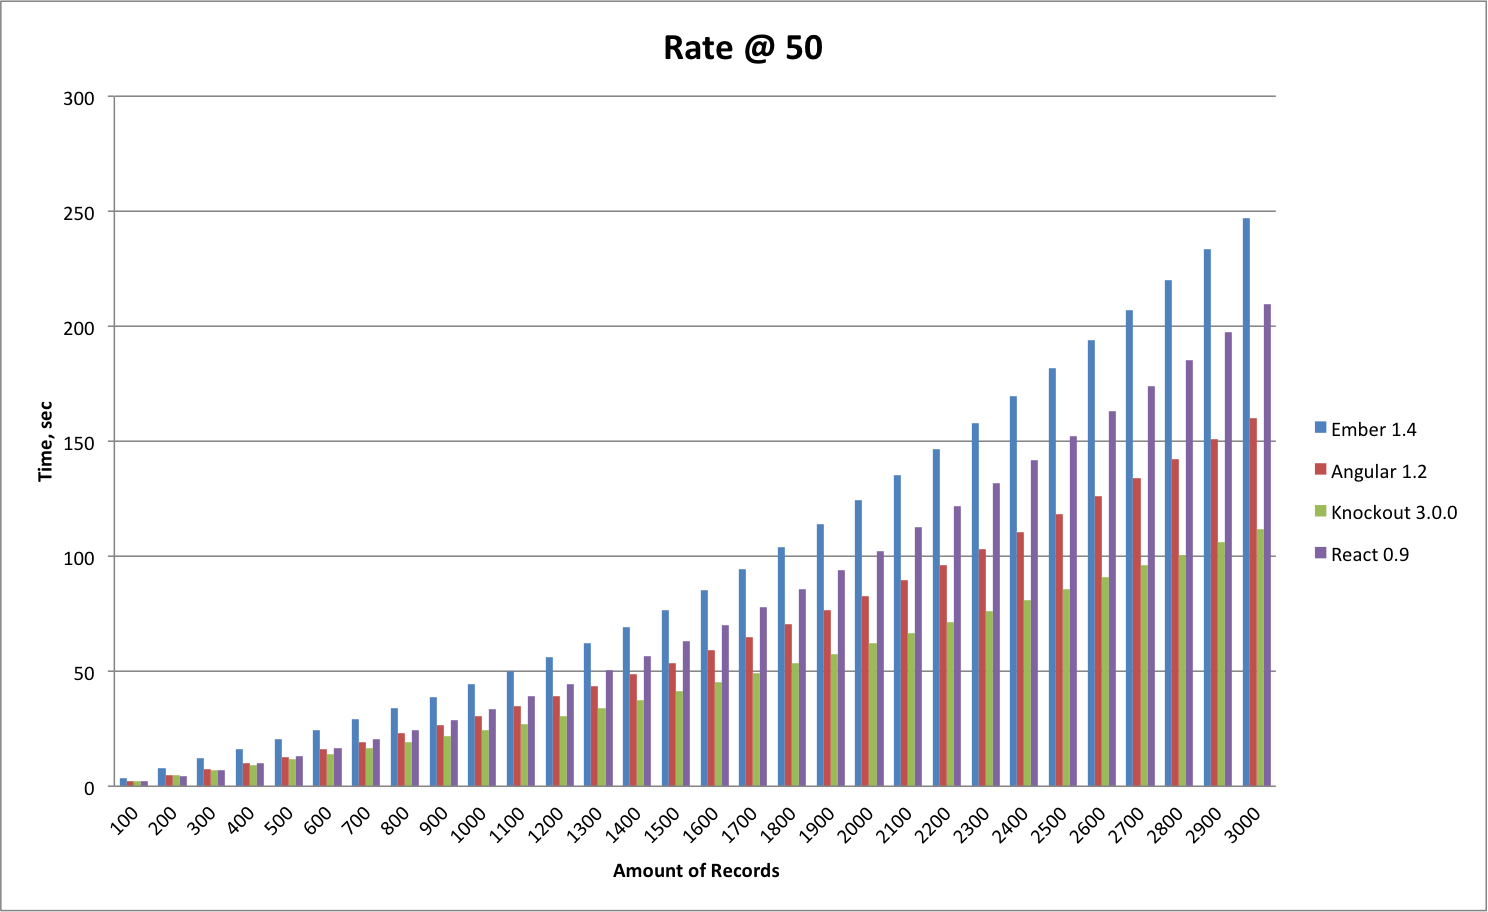
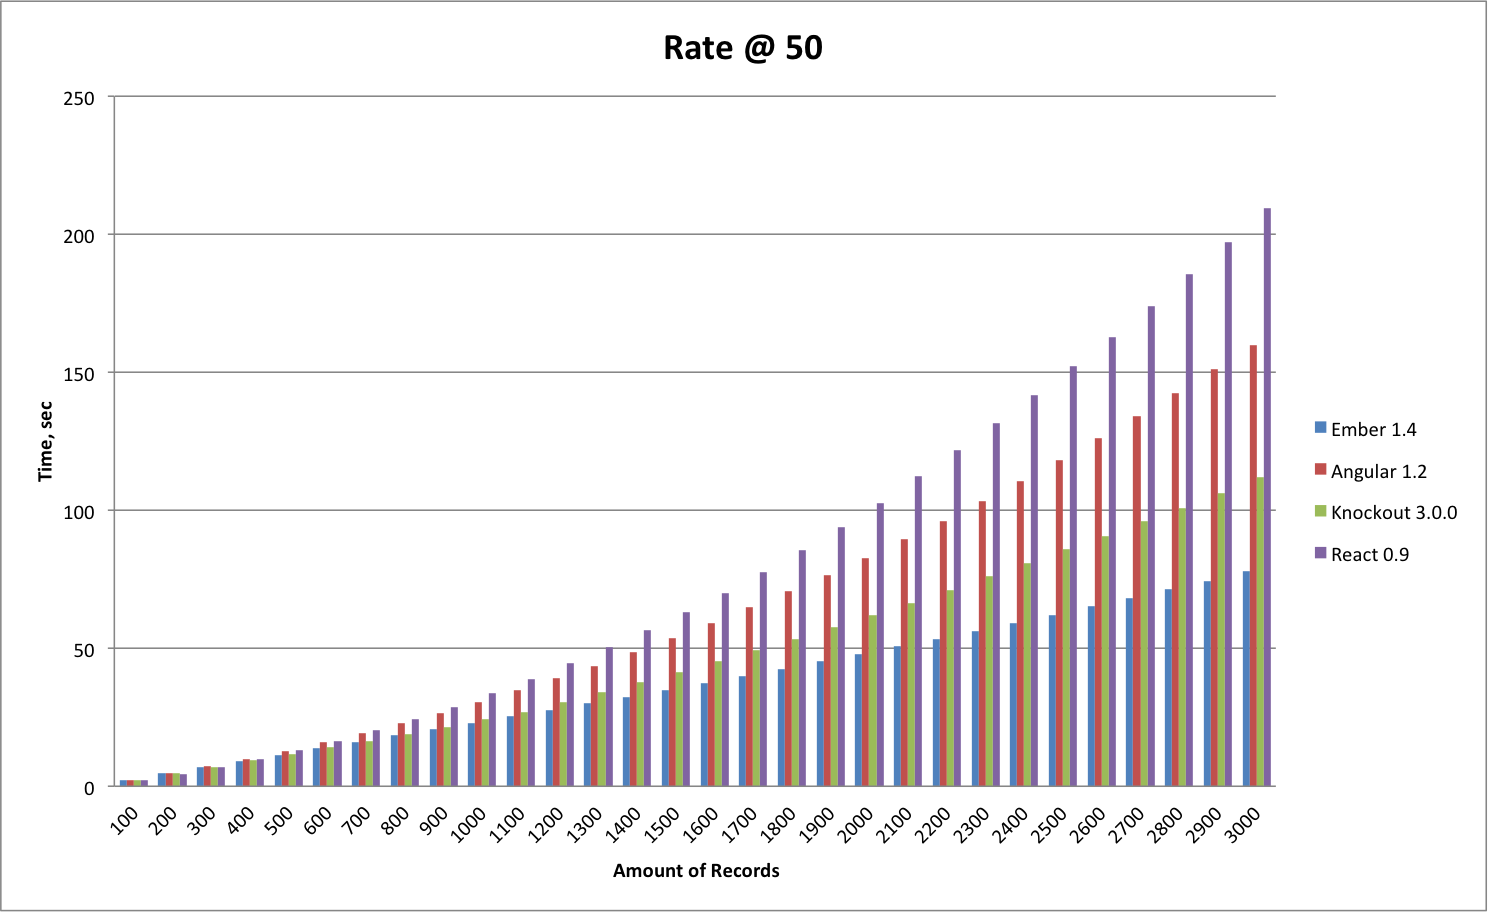
ember is the champ!

diff --git a/candidates/ember/index.js b/candidates/ember/index.js
@@ -46,7 +46,7 @@
         this.send('unshift');
 
         // set interval for further adds
-        intervalId = setInterval(this.add.bind(this), global.IBT.calculateInterval(this.get('rate')));
+        intervalId = setInterval(Ember.run.bind(this, this.add), global.IBT.calculateInterval(this.get('rate')));
         this.set('intervalId', intervalId);
       },
       stop: function () {
